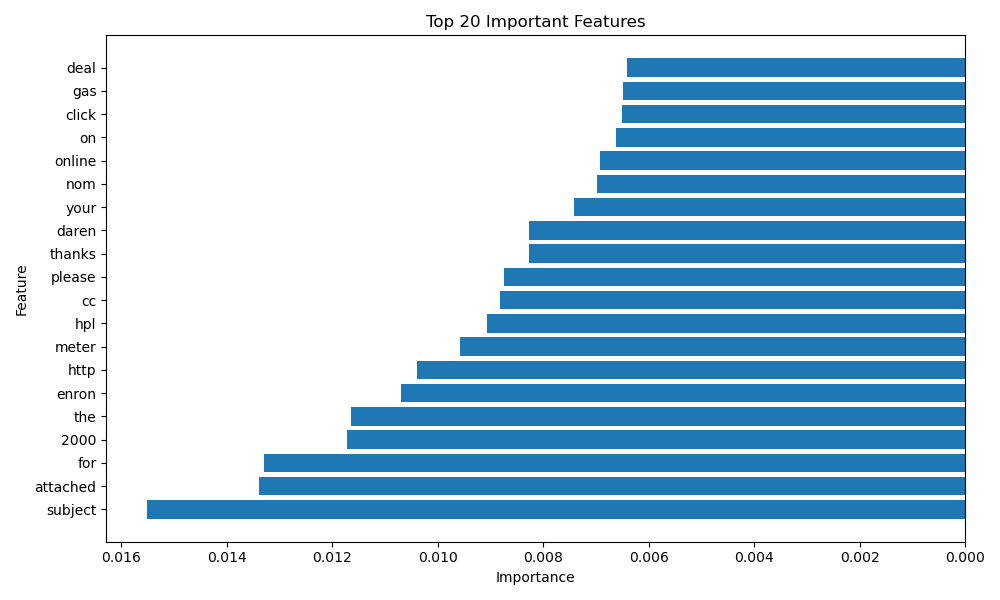
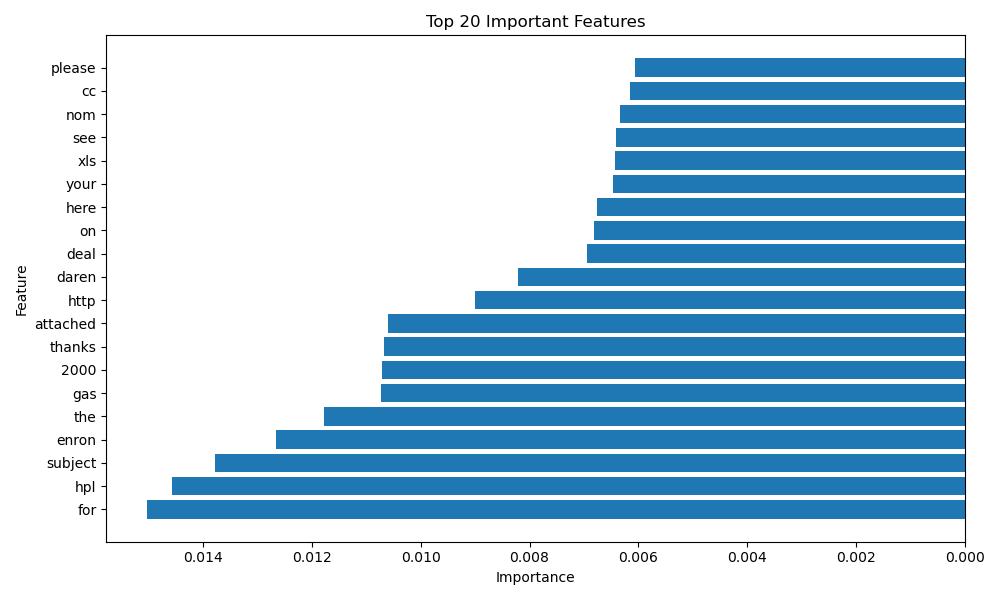
Day 5: Added GridSearchCV-based hyperparameter tuning for Random Forest optimization

diff --git a/src/models/tune_random_forest.py b/src/models/tune_random_forest.py
@@ -6,7 +6,7 @@ def tune_model(X_train, y_train):
     param_grid = {
         'n_estimators' : [100, 200],
         'max_depth' : [None, 20],
-        'main_samples_split' : [2, 5]
+        'min_samples_split' : [2, 5]
     }
 
     rf = RandomForestClassifier(random_state=42)
@@ -16,13 +16,17 @@ def tune_model(X_train, y_train):
         param_grid= param_grid,
         cv= 3,
         scoring= 'f1',
-        n_jobs= -1
+        n_jobs= -1,
+        verbose=2
     )
 
     grid_search.fit(X_train, y_train)
 
-    print("Best parameters: ", grid_search.best_params_)
-    print("Best Score: ", grid_search.best_score_)
+    print("\nBest parameters:")
+    print(grid_search.best_params_)
+
+    print("\nBest F1 Score: ")
+    print(grid_search.best_score_)
 
 
     return grid_search.best_estimator_

diff --git a/src/pipeline/train.py b/src/pipeline/train.py
@@ -1,15 +1,16 @@
 from sklearn.model_selection import train_test_split
-from src.models.random_forest import get_model
+from src.models.tune_random_forest import tune_model
 
 def train_model(X, y):
     X_train, X_test, y_train, y_test = train_test_split(
-    X, y, test_size=0.2, 
-    random_state=42,
-    stratify=y
+    X,
+    y,
+    test_size=0.2,
+    random_state=42
     )
 
-    model = get_model()
-    model.fit(X_train, y_train)
-    print("Model Trained Successfully")
-    
+    model = tune_model(X_train, y_train)
+
+    print("Best Tuned Model Trained Successfully")
+
     return model, X_test, y_test
